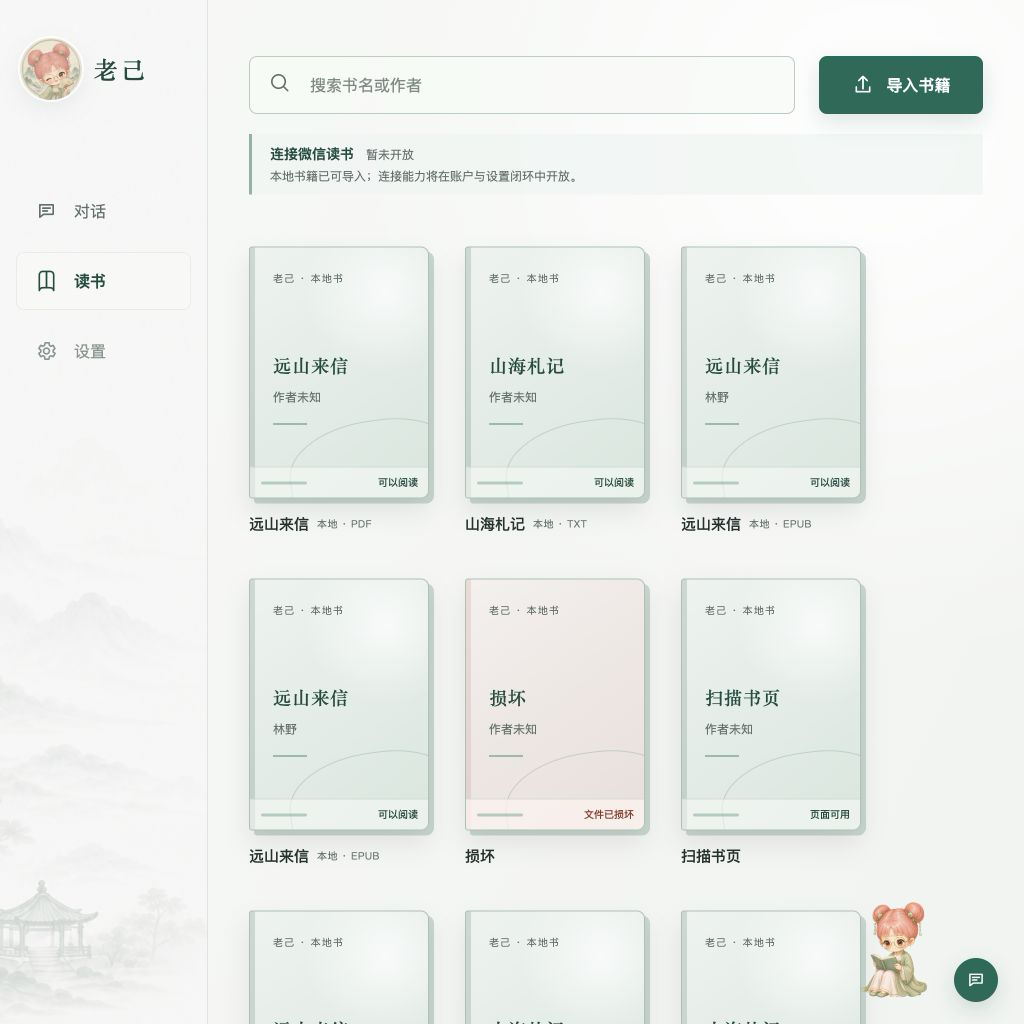
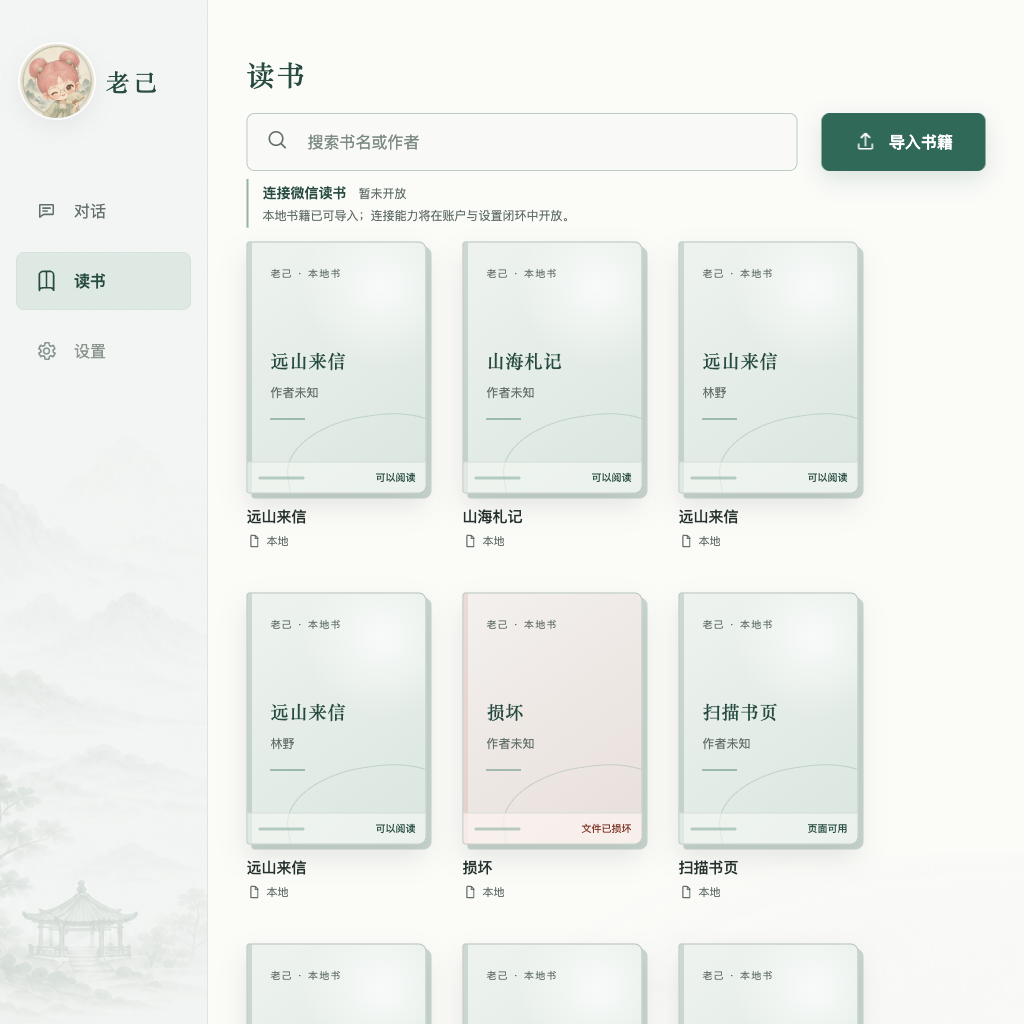
fix: align M1-F2-A library with final visual baseline

diff --git a/apps/web/src/styles.css b/apps/web/src/styles.css
@@ -32,9 +32,7 @@ button:focus-visible, a:focus-visible, textarea:focus-visible, input:focus-visib
 
 .library-shell {
   --library-rail: 208px;
-  min-height: 100vh; color: #21312d; background:
-    radial-gradient(circle at 86% 8%, rgba(255,255,255,.95), transparent 31%),
-    linear-gradient(115deg, #f7f9f6 0%, #f3f5f2 58%, #eef3ef 100%);
+  min-height: 100vh; color: #21312d; background: #fbfbf8;
 }
 .library-rail {
   position: fixed; inset: 0 auto 0 0; z-index: 10; width: var(--library-rail);
@@ -42,17 +40,21 @@ button:focus-visible, a:focus-visible, textarea:focus-visible, input:focus-visib
   background-color: #f5f8f6;
   background-image: url("/backgrounds/desktop-left-rail-landscape-approved-v1.png");
   background-repeat: no-repeat;
-  background-position: center bottom;
+  background-position: 37% bottom;
   background-size: cover;
   border-right: 1px solid #dbe5e0;
 }
+.library-rail::before {
+  content: ""; position: absolute; inset: 0; z-index: 1; pointer-events: none;
+  background: rgba(217, 233, 225, .16);
+}
 .library-brand {
   position: relative; z-index: 2; display: flex; align-items: center; gap: 12px;
-  margin: 38px 20px 0; color: #174c3f; text-decoration: none;
+  margin: 44px 20px 0; color: #174c3f; text-decoration: none;
 }
-.library-brand img { width: 62px; height: 62px; border-radius: 50%; object-fit: cover; box-shadow: 0 0 0 2px rgba(255,255,255,.8), 0 8px 24px rgba(33,49,45,.08); }
+.library-brand img { width: 74px; height: 74px; border-radius: 50%; object-fit: cover; box-shadow: 0 0 0 2px rgba(255,255,255,.8), 0 8px 24px rgba(33,49,45,.08); }
 .library-brand strong { font: 600 24px/1 "Songti SC", "STSong", serif; letter-spacing: .12em; }
-.library-nav { position: relative; z-index: 2; display: grid; gap: 12px; margin: 82px 16px 0; }
+.library-nav { position: relative; z-index: 2; display: grid; gap: 12px; margin: 64px 16px 0; }
 .library-nav a, .library-nav .disabled-nav {
   min-height: 58px; display: flex; align-items: center; gap: 16px; padding: 0 18px;
   border: 1px solid transparent; border-radius: 8px; color: #5f6f69;
@@ -60,12 +62,20 @@ button:focus-visible, a:focus-visible, textarea:focus-visible, input:focus-visib
 }
 .library-nav .disabled-nav { color: #89958f; cursor: not-allowed; }
 .library-nav a:hover { color: #174c3f; background: rgba(248,250,246,.52); }
-.library-nav a.active { color: #174c3f; background: rgba(248,250,246,.68); border-color: rgba(23,76,63,.08); font-weight: 600; }
-.library-nav svg, .library-toolbar svg, .library-companion svg, .library-state svg {
+.library-nav a.active { color: #174c3f; background: #dce9e4; border-color: #d4e2dc; font-weight: 600; }
+.library-nav svg, .library-toolbar svg, .library-state svg, .book-source svg {
   width: 23px; height: 23px; flex: none; fill: none; stroke: currentColor; stroke-width: 1.7; stroke-linecap: round; stroke-linejoin: round;
 }
-.library-main { min-height: 100vh; margin-left: var(--library-rail); padding: 56px clamp(32px, 4vw, 64px) 96px; }
-.library-toolbar, .weread-note, .book-grid, .library-inline-error { width: min(1044px, 100%); }
+.library-main { position: relative; isolation: isolate; min-height: 100vh; margin-left: var(--library-rail); padding: 56px clamp(32px, 3.75vw, 56px) 96px; overflow: hidden; }
+.library-main::after {
+  content: ""; position: fixed; z-index: -1; right: 0; bottom: 0; width: min(580px, 44vw); height: 172px;
+  pointer-events: none; opacity: .5; mix-blend-mode: multiply; background-image: url("/backgrounds/desktop-left-rail-landscape-approved-v1.png");
+  background-repeat: no-repeat; background-size: 720px 1440px; background-position: right -875px;
+  -webkit-mask-image: radial-gradient(ellipse at 100% 100%, #000 0 48%, rgba(0,0,0,.78) 62%, transparent 82%);
+  mask-image: radial-gradient(ellipse at 100% 100%, #000 0 48%, rgba(0,0,0,.78) 62%, transparent 82%);
+}
+.library-title, .library-toolbar, .weread-note, .book-grid, .library-inline-error { width: min(1044px, 100%); }
+.library-title { margin: 0 0 22px; color: #174c3f; font: 600 28px/1.25 "Songti SC", "STSong", serif; letter-spacing: .08em; }
 .library-toolbar { display: grid; grid-template-columns: minmax(280px, 1fr) 164px; gap: 40px; align-items: center; }
 .library-toolbar form {
   min-height: 58px; display: grid; grid-template-columns: 28px minmax(0, 1fr); align-items: center; gap: 12px;
@@ -85,8 +95,8 @@ button:focus-visible, a:focus-visible, textarea:focus-visible, input:focus-visib
 .import-button:focus-within { outline: 3px solid rgba(13,106,87,.28); outline-offset: 3px; }
 .import-button.busy { opacity: .7; cursor: wait; transform: none; }
 .weread-note {
-  min-height: 56px; margin-top: 20px; display: flex; align-items: center; justify-content: space-between; gap: 24px;
-  padding: 10px 14px 10px 18px; border-left: 3px solid #8fb3a4; background: rgba(239,245,242,.78); color: #5f6f69;
+  min-height: 28px; margin-top: 8px; display: flex; align-items: center; justify-content: space-between; gap: 24px;
+  padding: 4px 0 4px 14px; border-left: 2px solid #8fb3a4; background: transparent; color: #5f6f69;
 }
 .weread-note div { display: flex; align-items: baseline; gap: 12px; }
 .weread-note strong { color: #174c3f; font-size: 14px; }
@@ -96,7 +106,7 @@ button:focus-visible, a:focus-visible, textarea:focus-visible, input:focus-visib
 
 .book-grid {
   display: grid; grid-template-columns: repeat(5, minmax(132px, 180px));
-  gap: 44px 36px; margin-top: 52px; padding-bottom: 24px;
+  gap: 44px 36px; margin-top: 14px; padding-bottom: 24px;
 }
 .book-item { min-width: 0; }
 .default-cover {
@@ -122,9 +132,10 @@ button:focus-visible, a:focus-visible, textarea:focus-visible, input:focus-visib
 .book-item.processing .parse-badge { background: rgba(244,235,221,.72); color: #8a5a00; }
 .book-item.failed .default-cover { background: linear-gradient(90deg, rgba(180,68,50,.13) 0 5px, transparent 5px), linear-gradient(145deg, #f4f0ed, #e9deda); }
 .book-item.failed .parse-badge { color: #8d3527; background: rgba(255,244,240,.72); }
-.book-caption { display: flex; align-items: center; gap: 8px; margin-top: 15px; }
+.book-caption { display: grid; gap: 7px; margin-top: 12px; }
 .book-caption strong { min-width: 0; overflow: hidden; text-overflow: ellipsis; white-space: nowrap; font-size: 15px; font-weight: 500; }
-.book-caption span { flex: none; color: #5f6f69; font-size: 10px; letter-spacing: .05em; }
+.book-source { display: flex; align-items: center; gap: 5px; color: #5f6f69; font-size: 11px; }
+.book-source svg { width: 15px; height: 15px; }
 
 .library-state { min-height: 440px; display: flex; flex-direction: column; align-items: center; justify-content: center; text-align: center; color: #5f6f69; }
 .library-state > span:not(.empty-glyph) { width: 44px; height: 44px; display: grid; place-items: center; color: #b44432; }
@@ -138,11 +149,6 @@ button:focus-visible, a:focus-visible, textarea:focus-visible, input:focus-visib
 .shelf-loading i { height: 92px; border-radius: 3px 7px 7px 3px; background: linear-gradient(110deg, #dce8e2 25%, #edf3ef 45%, #dce8e2 65%); background-size: 220% 100%; animation: library-shimmer 1.2s linear infinite; }
 .shelf-loading i:nth-child(2), .shelf-loading i:nth-child(5) { height: 105px; }
 @keyframes library-shimmer { to { background-position: -220% 0; } }
-.library-companion { position: fixed; z-index: 12; right: 26px; bottom: 22px; display: flex; align-items: end; gap: 7px; text-decoration: none; }
-.library-companion img { width: 104px; height: 104px; object-fit: contain; }
-.library-companion span { width: 44px; height: 44px; display: grid; place-items: center; border-radius: 50%; background: #0d6a57; color: #fff; box-shadow: 0 8px 20px rgba(13,106,87,.18); }
-.library-companion svg { width: 21px; height: 21px; }
-
 .app-shell { min-height: 100vh; display: grid; grid-template-columns: 92px minmax(0, 1fr); }
 .side-rail {
   position: fixed; inset: 0 auto 0 0; width: 92px; z-index: 5;
@@ -274,7 +280,7 @@ button:focus-visible, a:focus-visible, textarea:focus-visible, input:focus-visib
   .template-grid { grid-template-columns: repeat(2, minmax(0,1fr)); }
 }
 @media (max-width: 1439px) {
-  .book-grid { grid-template-columns: repeat(4, minmax(132px, 180px)); }
+  .book-grid { grid-template-columns: repeat(4, minmax(132px, 180px)); column-gap: 36px; }
 }
 @media (max-width: 1199px) {
   .book-grid { grid-template-columns: repeat(3, minmax(132px, 180px)); }
@@ -293,7 +299,6 @@ button:focus-visible, a:focus-visible, textarea:focus-visible, input:focus-visib
   .import-button { min-width: 56px; width: 56px; }
   .import-button span { display: none; }
   .book-grid { gap: 34px 20px; margin-top: 38px; }
-  .library-companion img { width: 70px; height: 70px; }
 }
 @media (prefers-reduced-motion: reduce) {
   *, *::before, *::after { animation-duration: .01ms !important; transition-duration: .01ms !important; }

diff --git a/apps/web/src/main.ts b/apps/web/src/main.ts
@@ -35,6 +35,7 @@ const icons = {
   arrow: `<svg viewBox="0 0 20 20" aria-hidden="true"><path d="m7 4 6 6-6 6"/></svg>`,
   search: `<svg viewBox="0 0 24 24" aria-hidden="true"><circle cx="11" cy="11" r="7"/><path d="m16.5 16.5 4 4"/></svg>`,
   upload: `<svg viewBox="0 0 24 24" aria-hidden="true"><path d="M12 16V3m0 0L7.5 7.5M12 3l4.5 4.5"/><path d="M5 14v5h14v-5"/></svg>`,
+  file: `<svg viewBox="0 0 24 24" aria-hidden="true"><path d="M7 3h7l4 4v14H7z"/><path d="M14 3v5h5"/></svg>`,
   retry: `<svg viewBox="0 0 24 24" aria-hidden="true"><path d="M20 7v5h-5"/><path d="M18.2 16.2A8 8 0 1 1 19.4 9"/></svg>`,
 };
 
@@ -62,10 +63,6 @@ function libraryShell(content: string) {
         </nav>
       </aside>
       <main class="library-main">${content}</main>
-      <a class="library-companion" href="#/conversation" aria-label="和老己聊聊">
-        <img src="/mascot/laoji-mascot-seated-reading-transparent-v1.png" alt="" />
-        <span>${icons.chat}</span>
-      </a>
     </div>`;
 }
 
@@ -102,14 +99,11 @@ function libraryStatePanel() {
 }
 
 function libraryGrid(books: LibraryBookSummary[]) {
-  const titleCounts = new Map<string, number>();
-  books.forEach((book) => titleCounts.set(book.title, (titleCounts.get(book.title) ?? 0) + 1));
   return `<section class="book-grid" aria-label="书架，共 ${books.length} 本书">
     ${books.map((book) => {
       const author = authorLabel(book.author);
       const status = parseStatusLabel(book.parseStatus, book.errorCode);
-      const duplicate = (titleCounts.get(book.title) ?? 0) > 1;
-      return `<article class="book-item ${book.parseStatus}" aria-label="《${escapeHtml(book.title)}》，${escapeHtml(author)}，${escapeHtml(status)}">
+      return `<article class="book-item ${book.parseStatus}" aria-label="《${escapeHtml(book.title)}》，${escapeHtml(author)}，${escapeHtml(book.sourceLabel)}，${escapeHtml(status)}">
         <div class="default-cover" role="img" aria-label="《${escapeHtml(book.title)}》默认封面">
           <span class="cover-source">老己 · 本地书</span>
           <strong>${escapeHtml(book.title)}</strong>
@@ -119,7 +113,7 @@ function libraryGrid(books: LibraryBookSummary[]) {
         </div>
         <div class="book-caption">
           <strong title="${escapeHtml(book.title)}">${escapeHtml(book.title)}</strong>
-          ${duplicate ? `<span>本地 · ${book.format.toUpperCase()}</span>` : ""}
+          <span class="book-source">${icons.file}<span>${escapeHtml(book.sourceLabel)}</span></span>
         </div>
       </article>`;
     }).join("")}
@@ -131,6 +125,7 @@ function renderLibrary() {
     ? `<div class="library-inline-error" role="alert">${escapeHtml(libraryState.error)}，已保留当前书架。</div>`
     : "";
   app.innerHTML = libraryShell(`
+    <h1 class="library-title">读书</h1>
     <section class="library-toolbar" aria-label="书架工具">
       <form id="library-search" role="search">
         <label class="visually-hidden" for="book-query">搜索书名或作者</label>

diff --git a/apps/web/src/library-visual-contract.test.ts b/apps/web/src/library-visual-contract.test.ts
@@ -1,0 +1,54 @@
+import { readFile } from "node:fs/promises";
+import { describe, expect, it } from "vitest";
+
+const stylesPath = new URL("./styles.css", import.meta.url);
+const mainPath = new URL("./main.ts", import.meta.url);
+
+describe("library binding visual contract", () => {
+  it("keeps the reading canvas neutral and the approved rail scene fully framed", async () => {
+    const styles = await readFile(stylesPath, "utf8");
+    const shellRule = styles.match(/\.library-shell\s*\{([\s\S]*?)\n\}/)?.[1] ?? "";
+    const railRule = styles.match(/\.library-rail\s*\{([\s\S]*?)\n\}/)?.[1] ?? "";
+
+    expect(shellRule).toContain("background: #fbfbf8;");
+    expect(shellRule).not.toContain("gradient(");
+    expect(railRule).toContain("background-position: 37% bottom;");
+    expect(railRule).toContain("background-size: cover;");
+    expect(styles).toContain("background: rgba(217, 233, 225, .16);");
+  });
+
+  it("matches the approved rail identity scale and selected navigation surface", async () => {
+    const styles = await readFile(stylesPath, "utf8");
+
+    expect(styles).toContain(".library-brand img { width: 74px; height: 74px;");
+    expect(styles).toContain("background: #dce9e4;");
+  });
+
+  it("keeps the bound title and five-column continuous shelf at 1440", async () => {
+    const [styles, main] = await Promise.all([
+      readFile(stylesPath, "utf8"),
+      readFile(mainPath, "utf8"),
+    ]);
+
+    expect(main).toContain('<h1 class="library-title">读书</h1>');
+    expect(styles).toContain("grid-template-columns: repeat(5, minmax(132px, 180px));");
+    expect(styles).toContain("gap: 44px 36px;");
+  });
+
+  it("puts a real source below every cover and omits the normal-state companion", async () => {
+    const main = await readFile(mainPath, "utf8");
+
+    expect(main).toContain('class="book-source"');
+    expect(main).toContain("book.sourceLabel");
+    expect(main).not.toContain('class="library-companion"');
+  });
+
+  it("continues the approved low-contrast mountain asset into the lower right paper", async () => {
+    const styles = await readFile(stylesPath, "utf8");
+
+    expect(styles).toContain(".library-main::after");
+    expect(styles).toContain('url("/backgrounds/desktop-left-rail-landscape-approved-v1.png")');
+    expect(styles).toContain("mix-blend-mode: multiply;");
+    expect(styles).toContain("mask-image: radial-gradient(");
+  });
+});

diff --git a/TASK_LEDGER.md b/TASK_LEDGER.md
@@ -4,14 +4,14 @@
 
 ## 1. 当前目标与执行入口
 
-- 当前 Goal：无活动 Goal；`M1-F2-A` 已完成本地书籍导入与统一书架纵向闭环。
-- 当前阶段：桌面 Web `M1-F2-A` 已验收，等待后续工作包授权。
-- 当前拆分：M1 已展开为 31 个功能闭环与验收项；`M1-F2-A` 已完成，`M1-F2-B` 与 `M1-F2-C` 等待后续授权；M2 / M3 保持 8 个模块级父项，进入对应阶段时再展开。
+- 当前 Goal：`M1-F2-A` 统一书架视觉纠偏与主线复验。
+- 当前阶段：桌面 Web `M1-F2-A` 功能闭环与最终 03 基线下的候选分支视觉纠偏均已通过，保持隔离等待后续集成授权。
+- 当前拆分：M1 已展开为 31 个功能闭环与验收项；`M1-F2-A` 功能闭环保持通过、视觉纠偏正在复验，`M1-F2-B` 与 `M1-F2-C` 仍未开始；M2 / M3 保持 8 个模块级父项，进入对应阶段时再展开。
 - 唯一主线：本地 `main`；本轮治理链已纳入主线，后续只从 `main` 当前 HEAD 续接并在开始前重验。其他工作树保持只读，不作为开发目录或当前功能证据。
-- 当前执行波次：`M1-F2-A-DONE`。
-- 当前活动项：无。
-- 协调下一动作：在新授权下从 `M1-F2-B` 或 `M1-F2-C` 继续；不得在本轮提前实现正文阅读。
-- 当前授权边界：用户已授权开始 `M1-F2-A` 本地开发与范围单一本地提交；不实现正文阅读、OCR、小程序 UI 或后续 M1 功能，不调用付费 / 未授权外部服务，不 merge、push、建 PR、发布或部署。
+- 当前执行波次：`M1-F2-A-VISUAL-VERIFY`。
+- 当前活动项：`M1-F2-A`。
+- 协调下一动作：候选提交保持在 `codex/m1-f2-a`，不合并、不推送；取得新的集成授权后再合并并复验本地 `main`，通过后恢复 `DONE` 并释放 B、C。
+- 当前授权边界：用户已授权 `M1-F2-A` 本地开发、范围单一提交与候选分支验收；最新明确禁止本轮合并、push、建 PR、发布或部署。不实现正文阅读、OCR、小程序 UI 或后续 M1 功能，不调用付费 / 未授权外部服务。
 
 ## 2. 路线图与父级功能组（模块级导航，非执行项）
 
@@ -36,7 +36,7 @@
 | --- | --- | --- | --- | --- | --- | --- |
[1 lines of base64/hex data omitted]
 | `M1-F2-R2` | `DONE` / 主 Agent | 统一 EPUB / TXT / PDF 导入与界面；PDF 有文本读文本，无文本但页面可渲染则显示页面图，全部不可渲染才失败；不实现阅读器、不引入 OCR | 既定产品规则不变；实现若需要付费服务、伪造正文或改变视觉时暂停 | DOC、候选只读 | 覆盖文本、图片、加密、损坏、单页失败和全部不可渲染 PDF；审查 `SPEC`、`TECHNICAL`、候选 `67d77d7` 差异与链接 | 技术边界写入 `TECHNICAL.md`；候选拒绝图片型 PDF，仅可作为文本能力种子 |
-| `M1-F2-A` | `DONE` / 主 Agent | 本地 EPUB / TXT / PDF 从真实上传到账户归属、对象保存、解析状态、元信息、动态默认封面及桌面统一书架的完整闭环；不实现正文阅读 | 无阻塞；未调用付费或外部服务 | CORE、API、WORKER、DB、WEB、QA；变更限定于 A 的契约、领域解析、Server、Web、视觉事实源与验收证据 | 真实三类文件；加载 / 真空 / 筛选空 / 失败 / 正常；搜索、同名、作者缺失、刷新、账户隔离；Web 4 视口与 02/03 绑定参考 | `redesign-v2/output/acceptance/m1-f2-a/`；`pnpm verify` 10 文件 / 33 测试与构建通过；释放 B、C |
+| `M1-F2-A` | `VERIFY` / 主 Agent | 本地 EPUB / TXT / PDF 从真实上传到账户归属、对象保存、解析状态、元信息、动态默认封面及桌面统一书架的完整闭环；不实现正文阅读 | 功能无阻塞；视觉纠偏须合并并复验本地 `main` 后才恢复 `DONE` | CORE、API、WORKER、DB、WEB、QA；变更限定于 A 的契约、领域解析、Server、Web、视觉事实源与验收证据 | 真实三类文件；加载 / 真空 / 筛选空 / 失败 / 正常；搜索、同名、作者缺失、刷新、账户隔离；Web 4 视口与 02/03 绑定参考 | `redesign-v2/output/acceptance/m1-f2-a/`；最终 03 基线下为无渐变纸白、完整贴底山亭、1440 五列 180px、首屏两排，待合并 `main` 复验后恢复 `DONE` |
 | `M1-F2-B` | `PENDING` / 待分配 | EPUB / TXT 正文、目录、复制、全书位置、专注模式和阅读背景的桌面阅读闭环 | A；解析定位不稳定或需要改变统一阅读产品规则时暂停 | CORE、API、WORKER、DB、WEB、QA | 真实 EPUB / TXT；章节顺序、按需目录、唯一进度、刷新恢复、浅 / 深背景、键盘、五类状态和 Web 4 视口 | 未产生；通过后释放 D |
 | `M1-F2-C` | `PENDING` / 待分配 | 文本型 / 图片型 PDF 页面阅读、异常说明和独立笔记闭环；不 OCR、不伪造正文 | A、R2；渲染安全、缓存或锚点证据不足时暂停 | CORE、API、WORKER、DB、WEB、QA | 真实文本 / 扫描 / 加密 / 损坏 PDF；页面恢复、失败原因、独立笔记保存和视觉状态通过 | 未产生；通过后释放 D |
 | `M1-F2-D` | `PENDING` / 待分配 | 正文划线、想法、手工老己笔记、引用到会话、书籍详情和作品入口的完整闭环；不含 AI 整理笔记 | B、C；可靠定位缺失时不得虚构位置 | CORE、API、DB、WEB、QA | 无标题字段；新增 / 编辑 / 删除 / 保存失败；非颜色单一状态；本地可回原文、微信读书定位只读；详情视觉与五类状态 | 未产生；通过后释放 E、V1 |
@@ -120,8 +120,8 @@
 - 文件所有权：主 Agent 独占 `packages/contracts/`、`packages/domain/`、`apps/server/`、`apps/web/`、本完成收据、视觉事实源及 `redesign-v2/output/acceptance/m1-f2-a/`；未修改其他工作树。
 - 隔离环境：PostgreSQL schema `m1_f2_a_47b4`；Server `4310`；Web `4380`；空态另用 `m1_f2_a_empty_47b4` / `4311` / `4381`；对象目录 `data/artifacts/m1-f2-a-47b4/`。共享 `public` schema 未用于能力证明。
 - 功能证据：默认账户 10 个唯一对象键且全部账户前缀正确，状态 `ready_text` 8、`ready_pages` 1、`failed` 1；第二账户 0 本；真实 EPUB / TXT / 文本 PDF / 页面 PDF / 损坏 PDF、同名、缺作者、搜索、刷新与失败保留均通过。
[1 lines of base64/hex data omitted]
-- 自动证据：`pnpm verify` 通过，10 个测试文件 / 33 项测试和生产构建成功；`git diff --check` 通过；证据索引为 `redesign-v2/output/acceptance/m1-f2-a/README.md`。
[1 lines of base64/hex data omitted]
+- 自动证据：候选分支 `pnpm verify` 通过，11 个测试文件 / 38 项测试和生产构建成功；`git diff --check` 通过；证据索引为 `redesign-v2/output/acceptance/m1-f2-a/README.md`。待本地 `main` 合并后复验并记录最终提交。
 
 ## 6. 候选与共享环境证据
 
@@ -150,4 +150,4 @@
 | 台账动态混合粒度重整 | `DONE` | 31 个当前 M1 可执行项、8 个远期模块；字段覆盖、链接、旧编号残留和 diff 检查已通过 |
 | `M1-F2` 开发前收口 | `DONE` | PDF 唯一技术边界、`0204` 只读排除和安全开发基线已形成并纳入本轮主线治理链 |
 
-- 当前外部授权门：合并到主线、远端 push、PR、发布、部署、真实邮件 / 微信 / 模型 / 微信读书 / 联网 / Presenton 付费调用和小程序审核均未授权。
+- 当前外部授权门：本地 `main` 合并与复验、远端 push、PR、发布、部署、真实邮件 / 微信 / 模型 / 微信读书 / 联网 / Presenton 付费调用和小程序审核均未授权。

diff --git a/redesign-v2/output/acceptance/m1-f2-a/README.md b/redesign-v2/output/acceptance/m1-f2-a/README.md
@@ -5,8 +5,8 @@
 - 真实样本：可解析 EPUB《远山来信》（作者林野）、UTF-8 TXT《山海札记》、带文字 PDF《远山来信》、仅页面图像 PDF《扫描书页》、损坏 PDF。样本只保存在忽略目录，未作为生产资源提交。
 - 持久化结果：默认账户 10 个文件对象、10 个唯一对象键，全部以账户 ID 开头；状态为 `ready_text` 8、`ready_pages` 1、`failed` 1。第二账户列表为 0；服务重启后全部恢复。
 - 行为验收：真实文件选择器上传；上传后先显示 `processing`，轮询后落入可读/页面可用/失败；同名 TXT 保持为两本；缺作者显示“作者未知”；书名搜索、筛选空、服务失败保留原书架、刷新恢复均经真实浏览器入口验证。
[1 lines of base64/hex data omitted]
-- 无障碍与键盘：搜索框有显式标签并由 Enter 提交；Tab 从搜索框进入文件选择器时，导入按钮显示 `3px` 焦点轮廓；导航、文件选择器与陪伴入口均有可访问名称；交互目标不小于 44 px，并尊重 `prefers-reduced-motion`。
[1 lines of base64/hex data omitted]
+- 无障碍与键盘：搜索框和文件选择器均由显式 `<label>` 提供可访问名称；Enter 提交搜索；真实 Tab 从搜索框进入文件选择器时，导入按钮显示 `3px` 焦点轮廓，Shift+Tab 可返回搜索框；当前导航使用 `aria-current="page"`，装饰图标不进入可访问名称。导入按钮为 `164×58px`，交互目标不小于 44 px，并尊重 `prefers-reduced-motion`。
 
 ## 浏览器矩阵
 
@@ -14,14 +14,16 @@
 
 | 视口 | 列数 | 封面宽度 | 横向溢出 | 证据 |
 | --- | ---: | ---: | --- | --- |
-| 1440×1024 | 5 | 180 px | 无 | `02-normal-1440x1024.png` |
+| 1440×1024 | 5 | 180 px | 无 | `02-normal-1440x1024.png`、`06-visual-correction-1440x1024.png` |
 | 1200×1024 | 4 | 180 px | 无 | `02-normal-1200x1024.png` |
 | 1024×1024 | 3 | 180 px | 无 | `02-normal-1024x1024.png` |
 | 768×1024 | 3 | 180 px | 无 | `02-normal-768x1024.png` |
 
-状态证据：`00-loading-1440x1024.png`（真实请求挂起）、`01-empty-1440x1024.png`（独立空 schema）、`03-filtered-empty-1440x1024.png`（Enter 搜索）、`04-failure-retained-1440x1024.png`（服务离线且保留 7 本旧快照）、`05-processing-1440x1024.png`（真实对象上传后、10 秒解析延迟）。恢复后的浏览器控制台无 error/warning。
+`1440×1024` 正常态实际得到两排各五本，封面横坐标依次为 `262 / 478 / 694 / 910 / 1126px`，纵坐标为 `221 / 572px`；10 本书均显示真实来源，页面 `scrollWidth = 1440`、`scrollHeight = 1024`。响应式视口分别得到 `4 / 3 / 3` 列，无横向溢出。
+
+状态证据：`00-loading-1440x1024.png`（真实请求被浏览器协议暂停）、`01-empty-1440x1024.png`（独立空 schema）、`03-filtered-empty-1440x1024.png`（真实键盘 Enter 搜索）、`04-failure-retained-1440x1024.png`（请求失败且保留 10 本旧快照）、`05-processing-1440x1024.png`（真实 HTTP 上传进入隔离服务后，由 Chrome 观察到 `processing` 与 `ready` 并存）。恢复正常态后浏览器控制台无 error/warning。
 
 ## 自动验证
 
-- 定向测试：`pnpm exec vitest run packages/domain/src/book-import.test.ts apps/server/src/library-runtime.test.ts apps/web/src/library-state.test.ts`，3 个文件、10 项通过。
-- 完整验证：`pnpm verify` 通过，类型检查、10 个测试文件 / 33 项测试与生产构建全部成功；`git diff --check` 通过。
+- 定向视觉与状态回归：`pnpm exec vitest run apps/web/src/library-visual-contract.test.ts apps/web/src/library-state.test.ts`，2 个文件、7 项通过。
+- 完整验证：`pnpm verify` 通过，类型检查、11 个测试文件 / 38 项测试与生产构建全部成功；`git diff --check` 通过。

diff --git a/redesign-v2/design-reference/README.md b/redesign-v2/design-reference/README.md
@@ -87,7 +87,7 @@
 
 | 资产 | 文件 | 适用范围 | 使用方式 |
 | --- | --- | --- | --- |
-| 桌面 Web / 共享左栏远山亭子背景 | [`desktop-left-rail-landscape-approved-v1.png`](../assets/backgrounds/desktop-left-rail-landscape-approved-v1.png) | 桌面共享左栏；书架、阅读、会话、设置及 PPT 工作区共用 | 以雾白 `nav-surface` 为兜底，`cover / center bottom` 贴底裁切；不得叠加底部文案或提高山水对比度 |
+| 桌面 Web / 共享左栏远山亭子背景 | [`desktop-left-rail-landscape-approved-v1.png`](../assets/backgrounds/desktop-left-rail-landscape-approved-v1.png) | 桌面共享左栏；书架、阅读、会话、设置及 PPT 工作区共用 | 以雾白 `nav-surface` 为兜底；宽导航使用 `cover / 37% bottom` 构图并叠加极浅青瓷纸色，保证亭子不被左边或底边裁断；不得叠加底部文案或提高山水对比度 |
 
[1 lines of base64/hex data omitted]
 

diff --git a/redesign-v2/DESIGN-WEB.md b/redesign-v2/DESIGN-WEB.md
@@ -25,7 +25,7 @@
 ### 2.1 导航与背景
 
 - 应用内左侧主导航使用比相邻区域稍深、稍饱和的浅玉绿，不使用整栏深墨绿。
-- 导航必须保留低对比、低饱和的远山、树木与亭子背景；场景贴底锚定，在约 `1024px` 高画布中近景主要收在底部约三分之一，向上只保留极浅远山和雾气。
+- 导航必须保留低对比、低饱和的远山、树木与亭子背景；宽导航使用已确认运行时资产时以 `cover` 铺设，水平锚点约为 `37%` 并贴底，保证亭子完整落在左下而不被左边或底边裁断。近景主要收在底部约三分之一，向上只保留极浅远山和雾气。
 - 水墨不得上移覆盖导航项、进入内容列或形成抢占注意力的半栏主插画。
 - 左上角直接使用正式老己头像；宽导航显示头像与“老己”字标，窄导航只保留头像。
 - 当前导航项通过浅背景或轮廓、深绿图标和文字共同表达，不依赖单一颜色。
